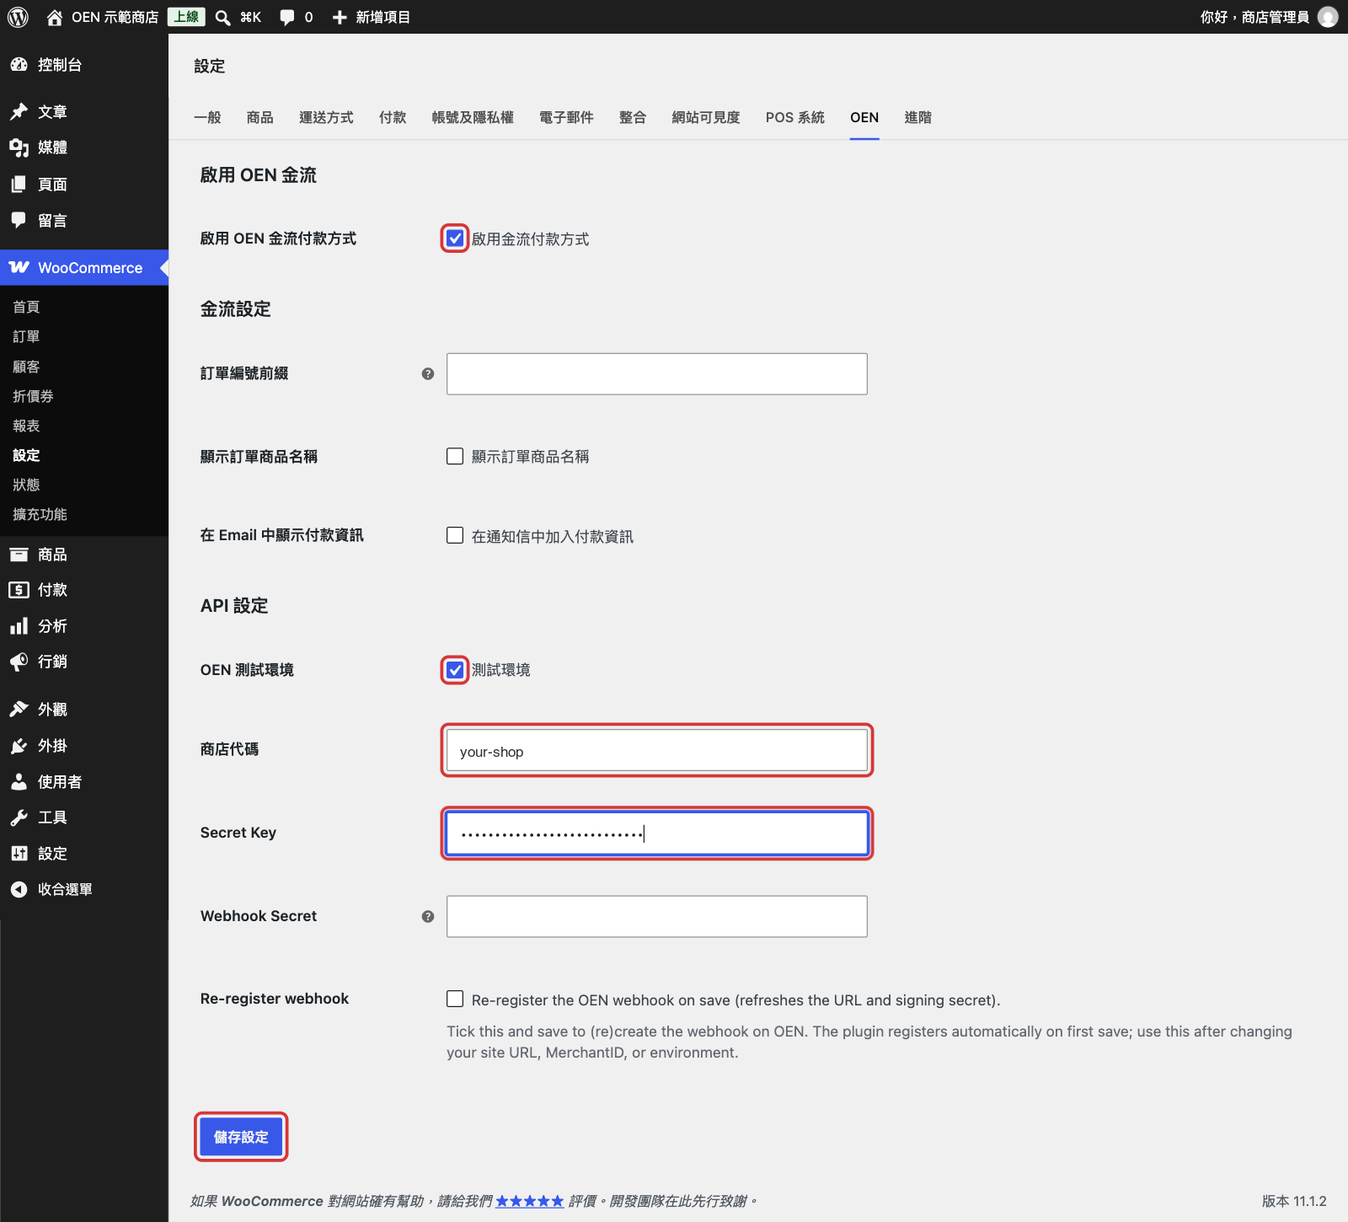
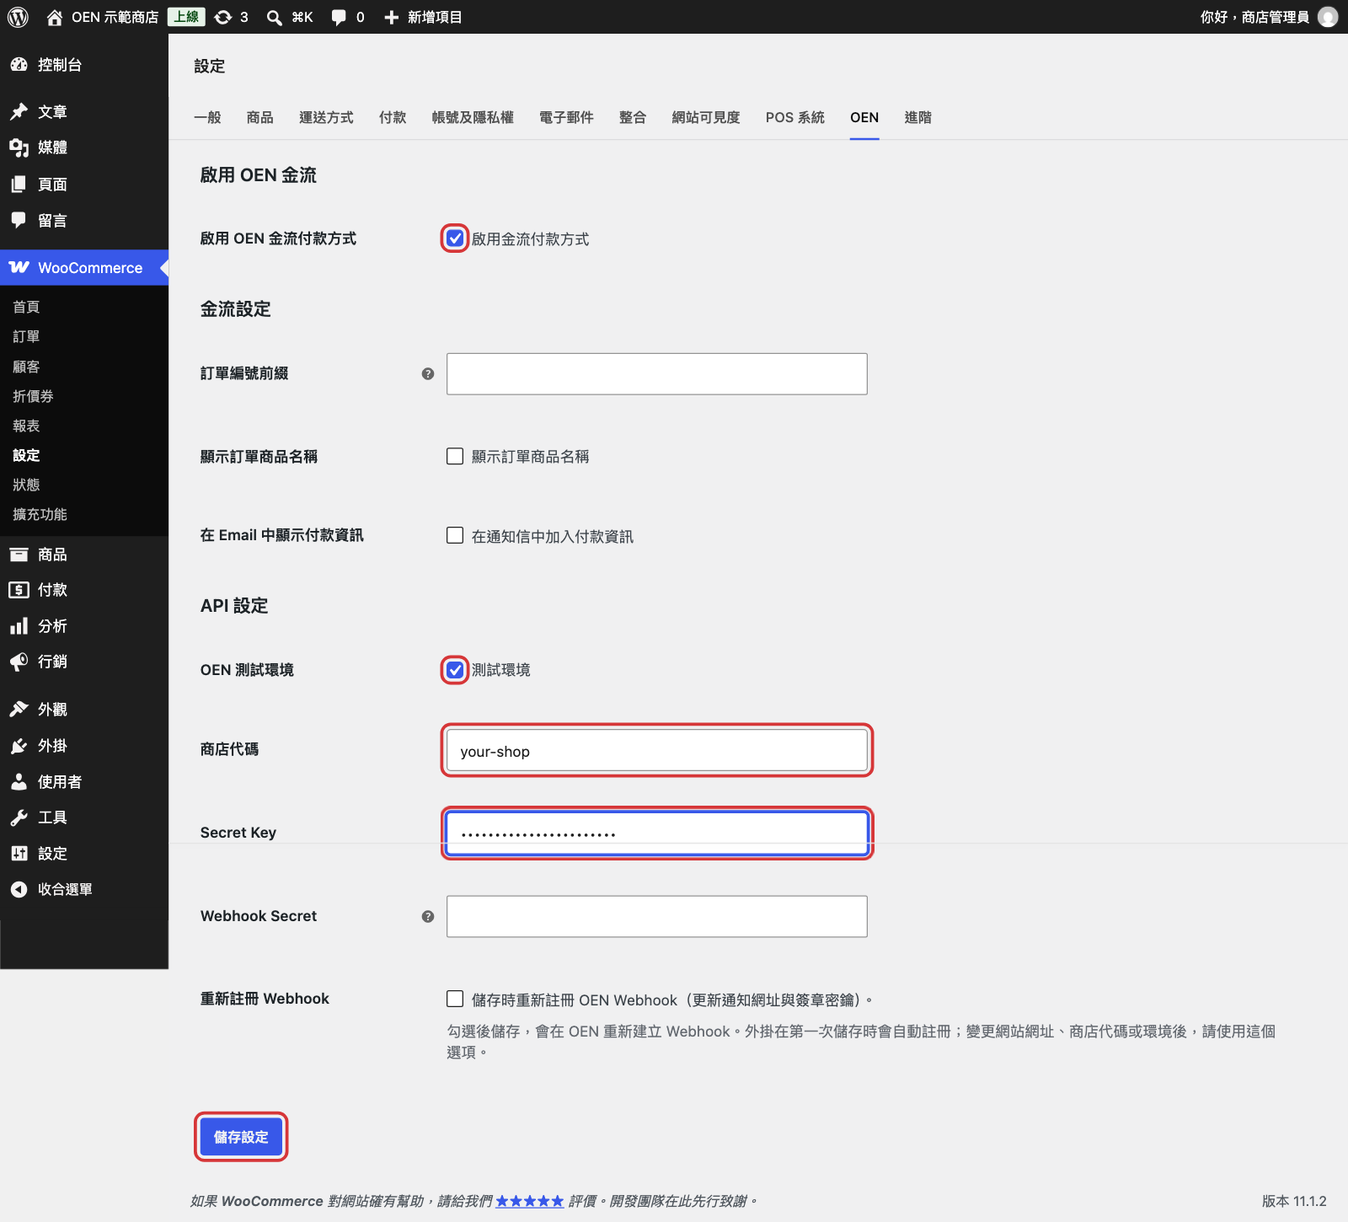
docs: quote the zh_TW UI strings and retake the screenshots for 1.0.4
The 1.0.4 release completes the Traditional Chinese translation, so the
settings, webhook notices, order notes and payment information now show
in Chinese. Update the quoted strings in the README, setup guide and FAQ,
retake the nine screenshots that showed English, and add the translation
item to the 1.0.4 changelog.

diff --git a/docs/setup-guide.md b/docs/setup-guide.md
@@ -2,7 +2,7 @@
 
 本文件帶你從申請應援商店開始，一路完成取得憑證、安裝、連接應援、試收款，到正式上線。
 
-截圖取自實際操作（2026-09-29），包含應援後台、應援付款頁與 WooCommerce 後台。畫面中的網域名稱、交易編號、繳費代碼、Webhook ID 與買家資料都已換成示範值或遮蔽，金鑰欄位也已遮蔽。應援後台的畫面可能與你看到的略有不同。
+截圖取自實際操作（2026-09-29），包含應援後台、應援付款頁與 WooCommerce 後台。畫面中的網域名稱、交易編號、退款編號、繳費代碼、Webhook ID 與買家資料都已換成示範值或遮蔽，金鑰欄位也已遮蔽。應援後台的畫面可能與你看到的略有不同。
 
 - 外掛介紹與串接技術說明：[README](../README.md)
 - 常見問題：[faq.md](faq.md)
@@ -150,13 +150,13 @@
 儲存後，外掛會自動向應援註冊付款通知網址（Webhook）並保存簽章密鑰，**不需要到應援後台手動設定**。成功時畫面上方會出現：
 
 ```text
-OEN webhook registered (…). The signing secret was stored automatically.
+已註冊 OEN Webhook（…），簽章密鑰已自動儲存。
 ```
 
 如果應援上已經有同一個網址的 Webhook（例如以前手動建立的），外掛會沿用它、更新訂閱事件並換新簽章密鑰，這時顯示的是：
 
 ```text
-OEN webhook updated (…) and its signing secret refreshed.
+已更新 OEN Webhook（…），並換新簽章密鑰。
 ```
 
 同時「Webhook Secret」欄位會自動填入（顯示為遮罩）。
@@ -174,7 +174,7 @@ OEN webhook updated (…) and its signing secret refreshed.
 通知網址由 WordPress 的網站網址（**設定 › 一般**）組成。網站網址若是內網位址或 `localhost`，應援就無法送達通知；正式上線前請確認網站網址是從公網可以連線的網址。
 
 > **注意**
-> - 若出現「OEN webhook auto-registration failed: …」，代表設定已儲存，但外掛沒有連上應援完成註冊，請參考 [FAQ](faq.md#儲存設定時出現-oen-webhook-auto-registration-failed)。
+> - 若出現「OEN Webhook 自動註冊失敗：…」，代表設定已儲存，但外掛沒有連上應援完成註冊，請參考 [FAQ](faq.md#儲存設定時出現oen-webhook-自動註冊失敗)。
 > - 外掛註冊的 Webhook 不會列在應援後台「OenPay Embed Webhook 健康狀態」的「已註冊的 Webhook」，那裡會顯示「尚未註冊 Webhook，OenPay 事件無法送達您的系統。」。這不影響外掛接收付款通知，也不需要在應援後台另外「新增 Webhook」。詳見 [FAQ](faq.md#應援後台顯示尚未註冊-webhook)。
 
 ## 步驟 5：開啟應援付款方式
@@ -253,7 +253,7 @@ OEN webhook updated (…) and its signing secret refreshed.
 
 - 狀態為「處理中」。
 - 訂單標題下方顯示應援交易編號與付款時間。
-- 訂單備註出現「OEN Payment completed (verified). Transaction: …」，代表外掛已向應援確認付款。
+- 訂單備註出現「OEN 付款完成（已向 OEN 確認）。金流編號：…」，代表外掛已向應援確認付款。
 
 ![信用卡訂單](images/24-admin-order-card.png)
 
@@ -261,7 +261,7 @@ OEN webhook updated (…) and its signing secret refreshed.
 
 - 訂單建立後為「保留」，等待消費者繳費。
 - 外掛會在訂單進入保留後，約 1、4、14、44 分鐘各向應援查詢一次繳費代碼，共 4 次，取得後就停止。查詢由 WordPress 的排程（WP-Cron）執行，網站沒有人瀏覽時會延後。
-- 取得代碼後，帳單地址下方顯示「OEN payment code」（繳費代碼、超商、繳費期限），訂單備註出現「OEN payment code received: …」。繳費期限依網站的時區與日期、時間格式（**設定 › 一般**）顯示。
+- 取得代碼後，帳單地址下方顯示「OEN 繳費代碼」（繳費代碼、超商、繳費期限），訂單備註出現「已取得 OEN 繳費代碼：…」。繳費期限依網站的時區與日期、時間格式（**設定 › 一般**）顯示。
 - 已取得代碼的訂單，超過應援付款頁的付款時限後仍維持「保留」，消費者可以在繳費期限內繳費。
 - 消費者繳費後，應援通知外掛，訂單改為「處理中」。
 
@@ -269,7 +269,7 @@ OEN webhook updated (…) and its signing secret refreshed.
 
 ![超商繳費訂單](images/25-admin-order-cvs.png)
 
-消費者可在「已收到訂單」頁與「我的帳號 › 訂單」看到繳費代碼。訪客之後再開啟「已收到訂單」頁時，WooCommerce 會先要求輸入下單的 Email。勾選「在 Email 中顯示付款資訊」時，訂單通知信也會附上代碼。
+消費者可在「已收到訂單」頁與「我的帳號 › 訂單」的「付款資訊」看到繳費超商、繳費代碼與繳費期限。訪客之後再開啟「已收到訂單」頁時，WooCommerce 會先要求輸入下單的 Email。勾選「在 Email 中顯示付款資訊」時，訂單通知信也會附上代碼。
 
 ![消費者看到的繳費代碼](images/26-customer-cvs-code.png)
 
@@ -285,7 +285,7 @@ OEN webhook updated (…) and its signing secret refreshed.
 
 > **注意**：請不要按「手動退款」。手動退款只會在 WooCommerce 記錄退款，**不會**通知應援把款項退給消費者。
 
-應援確認退款後，訂單會出現退款項目與「已退費」金額，訂單備註出現「Refunded … via OEN (refund …)」。應援沒有確認退款成功時，WooCommerce 不會記錄這筆退款，並會顯示錯誤訊息。
+應援確認退款後，訂單會出現退款項目與「已退費」金額，訂單備註出現「已透過 OEN 退款 … 元（退款編號 …）。」。應援沒有確認退款成功時，WooCommerce 不會記錄這筆退款，並會顯示錯誤訊息。
 
 ![退款完成](images/28-refund-done.png)
 
@@ -321,21 +321,21 @@ OEN webhook updated (…) and its signing secret refreshed.
 
 1. 取消勾選「OEN 測試環境」。
 2. 將「商店代碼」與「Secret Key」換成應援**正式環境**的值（依[步驟 1](#步驟-1申請應援商店並取得憑證) 在正式環境的應援後台查看與產生）。
-3. 勾選「Re-register webhook」。
+3. 勾選「重新註冊 Webhook」。
 4. 按「儲存設定」，確認畫面出現 Webhook 註冊或更新成功的訊息。
 
 ![切換到應援正式環境](images/32-go-live-settings.png)
 
 > **注意**
-> - 一定要勾選「Re-register webhook」。一般儲存不會重新註冊 Webhook，應援正式環境的付款通知會送不到網站。
+> - 一定要勾選「重新註冊 Webhook」。一般儲存不會重新註冊 Webhook，應援正式環境的付款通知會送不到網站。
 > - 商店代碼與 Secret Key 要換成應援正式環境的憑證，和「OEN 測試環境」的勾選狀態對應。
-> - 「Re-register webhook」只作用一次，儲存後會自動取消勾選。
-> - 之後若變更網站網址，也要勾選「Re-register webhook」重新儲存，外掛會為新網址另外建立一筆 Webhook。舊網址的 Webhook 不會被外掛刪除，如需移除請洽應援。
+> - 「重新註冊 Webhook」只作用一次，儲存後會自動取消勾選。
+> - 之後若變更網站網址，也要勾選「重新註冊 Webhook」重新儲存，外掛會為新網址另外建立一筆 Webhook。舊網址的 Webhook 不會被外掛刪除，如需移除請洽應援。
 
 ## 上線確認清單
 
 - [ ] 「OEN 測試環境」已取消勾選，商店代碼與 Secret Key 都是應援正式環境的值。
-- [ ] 儲存後出現「OEN webhook registered (…)」或「OEN webhook updated (…)」。
+- [ ] 儲存後出現「已註冊 OEN Webhook（…）」或「已更新 OEN Webhook（…）」。
 - [ ] WordPress 的網站網址（**設定 › 一般**）是從公網可以連線的網址，建議使用 HTTPS（Webhook 通知網址由它組成）。
 - [ ] **WooCommerce › 狀態 › 已排程動作** 中沒有逾時未執行的 `oen_payment_info_sync`（超商繳費代碼需要排程）。
 - [ ] 退款都從 WooCommerce 發起（在應援後台退款不會同步到 WooCommerce）。

diff --git a/docs/faq.md b/docs/faq.md
@@ -10,7 +10,7 @@
 - [設定頁找不到 OEN 分頁](#設定頁找不到-oen-分頁)
 - [需要到應援後台設定 Webhook 嗎？](#需要到應援後台設定-webhook-嗎)
 - [應援後台顯示「尚未註冊 Webhook」](#應援後台顯示尚未註冊-webhook)
-- [儲存設定時出現 OEN webhook auto-registration failed](#儲存設定時出現-oen-webhook-auto-registration-failed)
+- [儲存設定時出現「OEN Webhook 自動註冊失敗」](#儲存設定時出現oen-webhook-自動註冊失敗)
 - [切換正式環境或更改網址後，收不到應援的付款通知](#切換正式環境或更改網址後收不到應援的付款通知)
 - [Secret Key 外洩或需要更換怎麼辦？](#secret-key-外洩或需要更換怎麼辦)
 
@@ -48,12 +48,12 @@
 
 ### 需要到應援後台設定 Webhook 嗎？
 
-不需要。在 **WooCommerce › 設定 › OEN** 填好商店代碼與 Secret Key 並儲存後，外掛會自動向應援註冊付款通知網址 `https://你的網站/?wc-api=oen_payment`，並把簽章密鑰存進「Webhook Secret」。成功時畫面會出現「OEN webhook registered (…)」。
+不需要。在 **WooCommerce › 設定 › OEN** 填好商店代碼與 Secret Key 並儲存後，外掛會自動向應援註冊付款通知網址 `https://你的網站/?wc-api=oen_payment`，並把簽章密鑰存進「Webhook Secret」。成功時畫面會出現「已註冊 OEN Webhook（…）」。
 
 - Webhook 登記在儲存當下「OEN 測試環境」所選的環境。
 - 通知網址由 WordPress 的網站網址（**設定 › 一般**）組成，網站網址必須是應援能從公網連線的網址。
 
-第一次儲存或勾選「Re-register webhook」儲存時，如果應援上已經有同一個網址的 Webhook（例如先前手動建立的），外掛會沿用它、更新訂閱事件並換新簽章密鑰，不會重複建立，畫面顯示「OEN webhook updated (…)」。
+第一次儲存或勾選「重新註冊 Webhook」儲存時，如果應援上已經有同一個網址的 Webhook（例如先前手動建立的），外掛會沿用它、更新訂閱事件並換新簽章密鑰，不會重複建立，畫面顯示「已更新 OEN Webhook（…）」。
 
 ### 應援後台顯示「尚未註冊 Webhook」
 
@@ -61,20 +61,20 @@
 
 ![應援後台的 Webhook 健康狀態](images/faq-crm-webhook-health.png)
 
-- 請以外掛設定頁的「OEN webhook registered (…)」訊息，以及訂單是否自動改為「處理中」為準。
+- 請以外掛設定頁的「已註冊 OEN Webhook（…）」訊息，以及訂單是否自動改為「處理中」為準。
 - 不需要在應援後台按「新增 Webhook」。
 - 同一張卡片的「24h 成功」會計入外掛收到的通知；「投遞失敗事件」也會列出送達失敗的付款與退款通知，並提供「重發」按鈕。
 - 外掛的 Webhook 無法在應援後台停用或刪除，如需處理請洽應援。
 
-### 儲存設定時出現 OEN webhook auto-registration failed
+### 儲存設定時出現「OEN Webhook 自動註冊失敗」
 
 **原因**：設定已經儲存，但外掛沒有成功在應援註冊 Webhook。可能是 Secret Key 與「OEN 測試環境」的勾選狀態屬於不同環境（例如勾選測試環境，卻填了正式環境的 Secret Key），或網站無法對外連線到應援。錯誤訊息冒號後面會附上應援回傳的原因。
 
 **處理方式**：
 
 1. 確認「OEN 測試環境」的勾選狀態，和商店代碼、Secret Key 屬於同一個應援環境。
-2. 勾選「Re-register webhook」，再按「儲存設定」。
-3. 成功時會出現「OEN webhook registered (…)」或「OEN webhook updated (…)」。
+2. 勾選「重新註冊 Webhook」，再按「儲存設定」。
+3. 成功時會出現「已註冊 OEN Webhook（…）」或「已更新 OEN Webhook（…）」。
 
 問題仍然存在時，請聯絡[應援說明中心](https://oen.tw/support)確認憑證與帳號狀態。
 
@@ -82,14 +82,14 @@
 
 **原因**：一般儲存不會重新註冊 Webhook，應援仍把通知送到原本的環境或舊網址。
 
-**處理方式**：勾選「Re-register webhook」後按「儲存設定」。切換環境時，商店代碼與 Secret Key 要換成該環境的憑證。變更網址時，外掛會為新網址另外建立一筆 Webhook；舊網址的 Webhook 不會被外掛刪除，如需移除請洽應援。
+**處理方式**：勾選「重新註冊 Webhook」後按「儲存設定」。切換環境時，商店代碼與 Secret Key 要換成該環境的憑證。變更網址時，外掛會為新網址另外建立一筆 Webhook；舊網址的 Webhook 不會被外掛刪除，如需移除請洽應援。
 
 步驟請見[設定教學步驟 7](setup-guide.md#步驟-7切換到應援正式環境)。
 
 ### Secret Key 外洩或需要更換怎麼辦？
 
 1. 到應援後台 **總設定 › OenPay Embed › Embed API Key**（步驟同[設定教學步驟 1](setup-guide.md#產生-secret-key)）。**金鑰外洩時**，先按「撤銷」停用這個網域的金鑰，再按「產生金鑰」；只是例行更換時，按「重新產生金鑰」。撤銷後到填入新金鑰之前，外掛無法連線到應援。需要協助時請聯絡應援（[說明中心](https://oen.tw/support)或 [info@oen.tw](mailto:info@oen.tw)）。
-2. 到 **WooCommerce › 設定 › OEN** 填入新的 Secret Key，同時勾選「Re-register webhook」後儲存。外掛會替同一網址的 Webhook 換新簽章密鑰，並自動存入「Webhook Secret」。
+2. 到 **WooCommerce › 設定 › OEN** 填入新的 Secret Key，同時勾選「重新註冊 Webhook」後儲存。外掛會替同一網址的 Webhook 換新簽章密鑰，並自動存入「Webhook Secret」。
 
 ## 結帳與付款
 
@@ -115,7 +115,7 @@
 |---|---|---|
 | 完全沒有紀錄 | 應援的通知沒有送到網站 | 確認 WordPress 的網站網址（**設定 › 一般**）是公網可連線的網址；防火牆、CDN 或安全性外掛沒有擋下 `/?wc-api=oen_payment`；Webhook 是在目前使用的應援環境註冊的 |
 | `Payment completed for order #…` | 已向應援確認付款並更新訂單 | 無須處理 |
-| `Invalid webhook signature`、`Missing OenPay-Signature header` | 應援通知的簽章驗證失敗 | 勾選「Re-register webhook」後儲存，重新同步簽章密鑰 |
+| `Invalid webhook signature`、`Missing OenPay-Signature header` | 應援通知的簽章驗證失敗 | 勾選「重新註冊 Webhook」後儲存，重新同步簽章密鑰 |
 | `Expired webhook signature timestamp` | 伺服器時間和實際時間相差超過 300 秒 | 校正伺服器系統時間 |
 | `Session verification failed for order #…`、`API verification failed for order #…` | 外掛向應援查詢付款結果失敗：連線失敗、逾時，或應援拒絕查詢 | 確認網站能對外連線到應援。冒號後的訊息含 HTTP 401 時，確認 Secret Key 有效，且與「OEN 測試環境」的勾選屬於同一個環境。外掛不會變更訂單，並等待應援重送通知 |
 | `Order ID mismatch during …`、`Amount mismatch during …` | 應援查到的訂單編號或金額，與 WooCommerce 訂單不一致 | 檢查訂單建立後是否被改過金額；或這組應援憑證是否同時被其他網站（例如測試站）使用，通知屬於那個網站的訂單 |

diff --git a/README.md b/README.md
@@ -123,10 +123,10 @@
    1. 勾選「啟用 OEN 金流付款方式」。
    2. 勾選「OEN 測試環境」。
    3. 填入應援**測試環境**的「商店代碼」（應援後台的「網域名稱」）與「Secret Key」（在應援後台「總設定 › OenPay Embed」產生）。
-   4. 儲存。畫面出現「OEN webhook registered (…)」或「OEN webhook updated (…)」，代表外掛已連上應援，Webhook 與簽章密鑰都已自動設定。
+   4. 儲存。畫面出現「已註冊 OEN Webhook（…）」或「已更新 OEN Webhook（…）」，代表外掛已連上應援，Webhook 與簽章密鑰都已自動設定。
 3. 到 **WooCommerce › 設定 › 付款**，啟用「OEN 信用卡」「OEN 超商繳費」。
 4. 在應援測試環境各下一筆信用卡與超商繳費訂單，確認訂單狀態依[付款與訂單狀態](#付款與訂單狀態)更新。
-5. 正式上線：取消勾選「OEN 測試環境」，換成應援**正式環境**的商店代碼與 Secret Key，**勾選「Re-register webhook」**後儲存。
+5. 正式上線：取消勾選「OEN 測試環境」，換成應援**正式環境**的商店代碼與 Secret Key，**勾選「重新註冊 Webhook」**後儲存。
 
 每個步驟的操作畫面請見[設定教學](docs/setup-guide.md)。
 
@@ -144,7 +144,7 @@
 | 商店代碼 | 應援後台的「網域名稱」 |
 | Secret Key | 應援後台產生的 Secret Key |
 | Webhook Secret | Webhook 簽章密鑰，註冊時自動填入，請留空。沒有這個密鑰時，外掛不會接受應援的退款通知 |
-| Re-register webhook | 一次性勾選，儲存時重新註冊 Webhook 並換新簽章密鑰 |
+| 重新註冊 Webhook | 一次性勾選，儲存時重新註冊 Webhook 並換新簽章密鑰 |
 
 ### WooCommerce › 設定 › 付款 › OEN 信用卡／OEN 超商繳費
 
@@ -162,7 +162,7 @@
 | 測試 | `https://api.testing.oen.tw/api` | 勾選「OEN 測試環境」 |
 
 - 商店代碼與 Secret Key 皆為必填；任一為空時，結帳頁不會顯示應援付款方式。
-- 切換環境時，商店代碼與 Secret Key 要換成該環境的憑證，並勾選「Re-register webhook」重新註冊（Webhook 登記在當下所選的環境）。
+- 切換環境時，商店代碼與 Secret Key 要換成該環境的憑證，並勾選「重新註冊 Webhook」重新註冊（Webhook 登記在當下所選的環境）。
 - 使用應援測試環境前，請先向應援確認你的測試環境已開通 Hosted Checkout（應援付款頁）。
 
 ### Webhook（付款通知網址）
@@ -176,8 +176,8 @@ https://<你的網站>/?wc-api=oen_payment
 這個網址由 WordPress 的網站網址組成。網站網址若是內網位址或 `localhost`，應援就無法送達通知。
 
 - 第一次儲存設定時，外掛自動向應援註冊這個網址，並把簽章密鑰存入「Webhook Secret」。之後的一般儲存不會再註冊。
-- 切換環境或變更網站網址後，勾選「Re-register webhook」重新儲存。變更網址時，外掛會為新網址另外建立一筆 Webhook。
-- 註冊失敗時設定仍會儲存，並在設定頁顯示「OEN webhook auto-registration failed: …」。
+- 切換環境或變更網站網址後，勾選「重新註冊 Webhook」重新儲存。變更網址時，外掛會為新網址另外建立一筆 Webhook。
+- 註冊失敗時設定仍會儲存，並在設定頁顯示「OEN Webhook 自動註冊失敗：…」。
 - 外掛註冊的 Webhook 不會列在應援後台「OenPay Embed Webhook 健康狀態」的「已註冊的 Webhook」，那裡會顯示「尚未註冊 Webhook」。這不影響付款通知，也不需要在應援後台另外新增 Webhook。詳見 [FAQ](docs/faq.md#應援後台顯示尚未註冊-webhook)。
 
 ## 付款與訂單狀態
@@ -308,17 +308,17 @@ sequenceDiagram
 | 商店代碼（MerchantID） | `oen_merchant_id` |
 | Secret Key | `oen_api_token` |
 | Webhook Secret | `oen_webhook_secret` |
-| Re-register webhook | `oen_webhook_reregister` |
+| 重新註冊 Webhook | `oen_webhook_reregister` |
 
 ## Webhook 註冊與事件
 
 儲存 **WooCommerce › 設定 › OEN** 時，若主開關已開啟且商店代碼、Secret Key 已填寫：
 
-1. **首次儲存**：若應援上已有相同網址的 Webhook（例如先前手動建立），就沿用它、更新訂閱事件並換新簽章密鑰，顯示「OEN webhook updated (…) and its signing secret refreshed.」；否則建立新的 Webhook，顯示「OEN webhook registered (…). The signing secret was stored automatically.」。Webhook ID 與簽章密鑰會自動寫入設定。
+1. **首次儲存**：若應援上已有相同網址的 Webhook（例如先前手動建立），就沿用它、更新訂閱事件並換新簽章密鑰，顯示「已更新 OEN Webhook（…），並換新簽章密鑰。」；否則建立新的 Webhook，顯示「已註冊 OEN Webhook（…），簽章密鑰已自動儲存。」。Webhook ID 與簽章密鑰會自動寫入設定。
 2. **一般儲存**：已記錄 Webhook ID 時不再動作。
-3. **勾選「Re-register webhook」後儲存**：重新比對、更新並換新簽章密鑰。這個勾選只作用一次，儲存後自動取消。
+3. **勾選「重新註冊 Webhook」後儲存**：重新比對、更新並換新簽章密鑰。這個勾選只作用一次，儲存後自動取消。
 
-若「Webhook Secret」是手動填入、且沒有記錄 Webhook ID（舊版的安裝方式），一般儲存不會覆蓋，需勾選「Re-register webhook」才會改由外掛管理。
+若「Webhook Secret」是手動填入、且沒有記錄 Webhook ID（舊版的安裝方式），一般儲存不會覆蓋，需勾選「重新註冊 Webhook」才會改由外掛管理。
 
 訂閱的事件：
 

diff --git a/CHANGELOG.md b/CHANGELOG.md
@@ -8,6 +8,7 @@
 - 修正：改選付款方式導致訂單金額改變（例如不同付款方式的手續費不同）時，不再被擋下而無法付款。
 - 修正：後台退款失敗時，同時送達的應援退款通知不再遺失。
 - 修正：超商繳費期限改以網站的時區與日期、時間格式顯示；先前直接顯示應援回傳的 UTC 時間，比台灣時間早 8 小時。
+- 翻譯：補齊繁體中文翻譯。先前在繁體中文網站上，付款資訊、「重新註冊 Webhook」設定、Webhook 註冊訊息、訂單備註與應援 API 錯誤訊息仍顯示英文。
 - 相容性：測試至 WordPress 7.1、WooCommerce 11.1。
 
 ## 1.0.3
